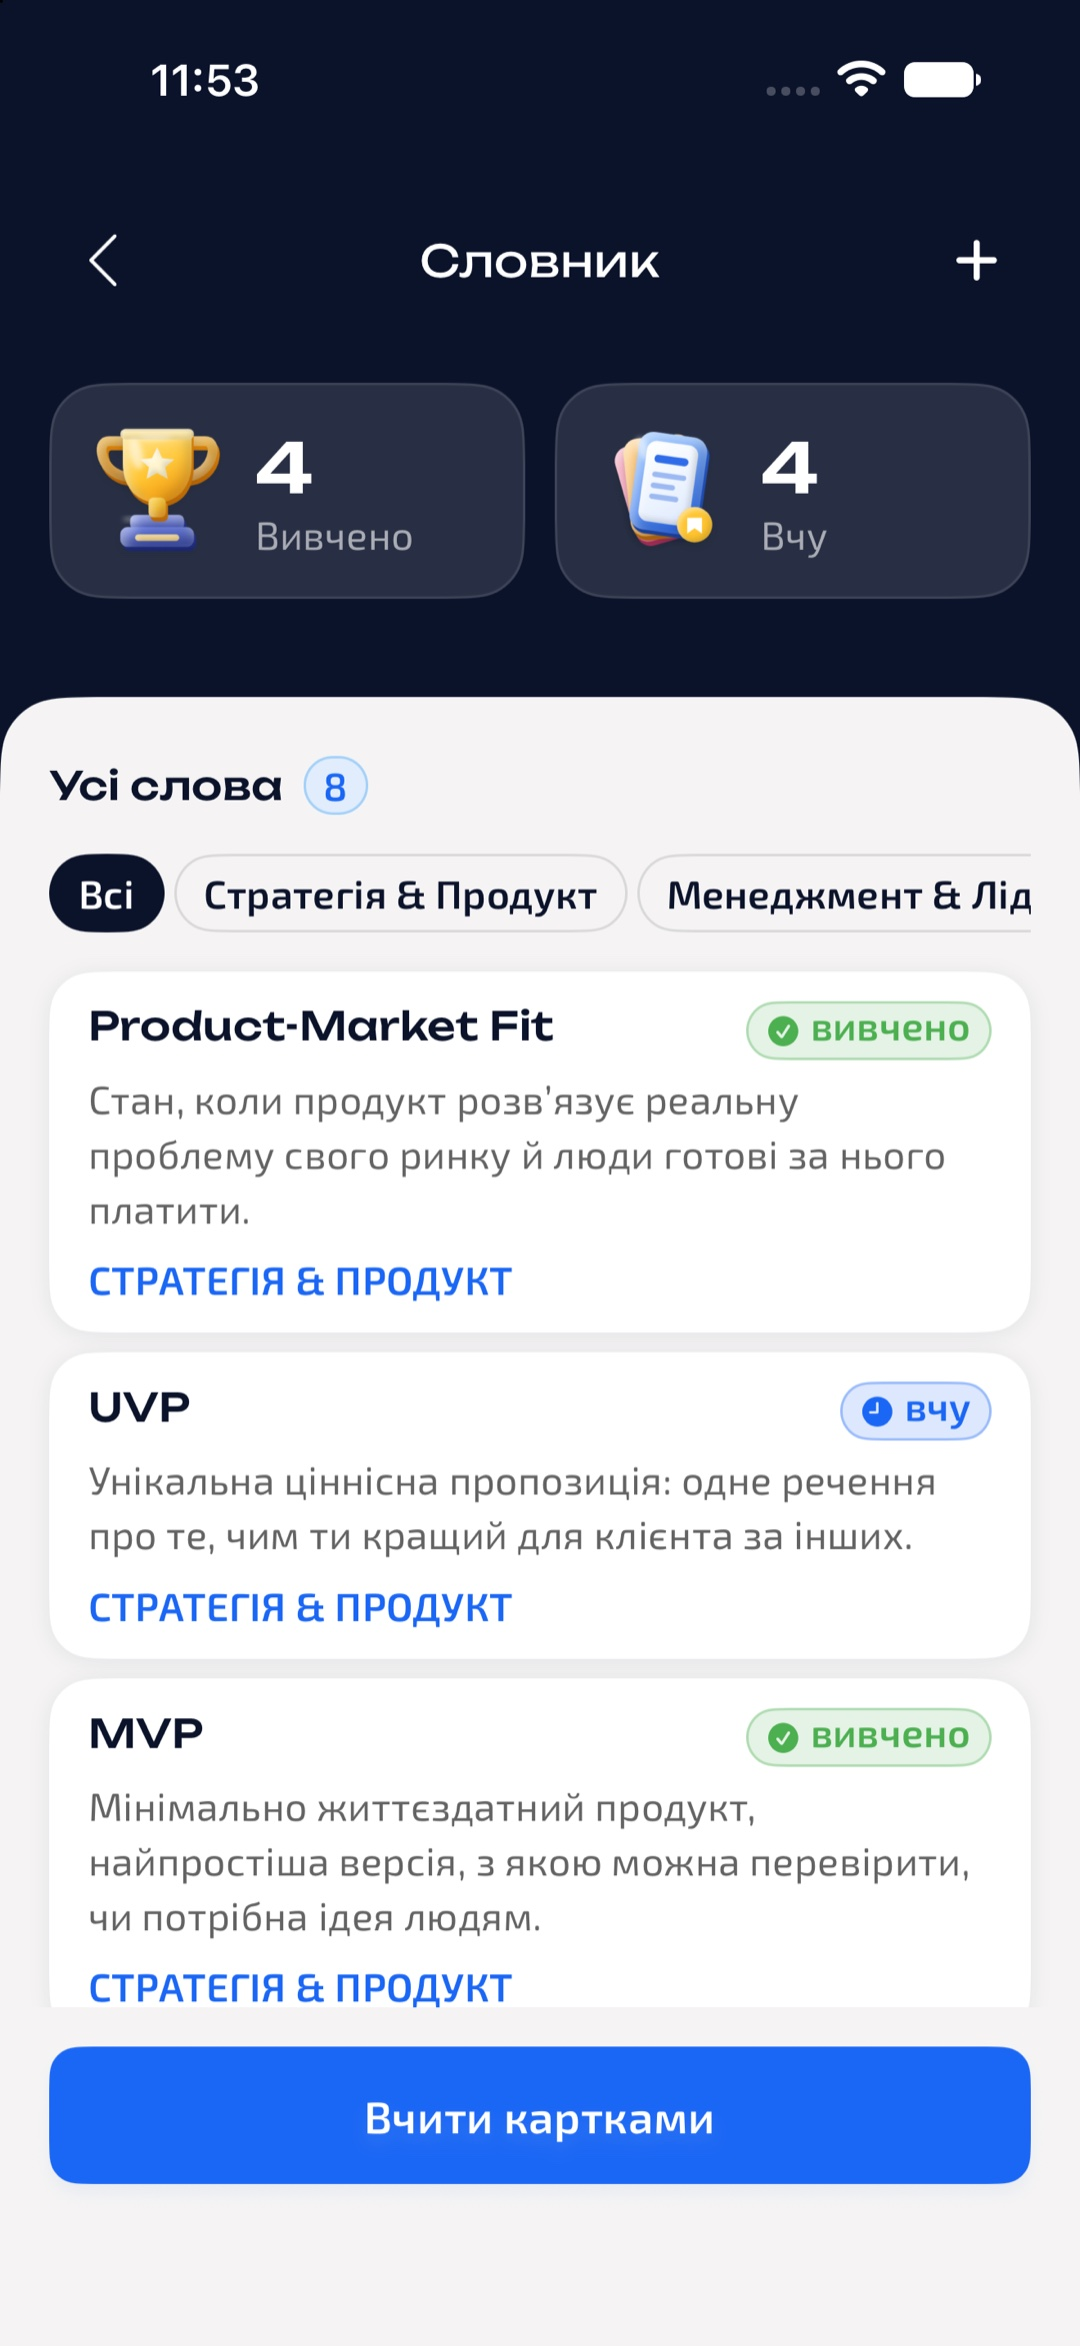
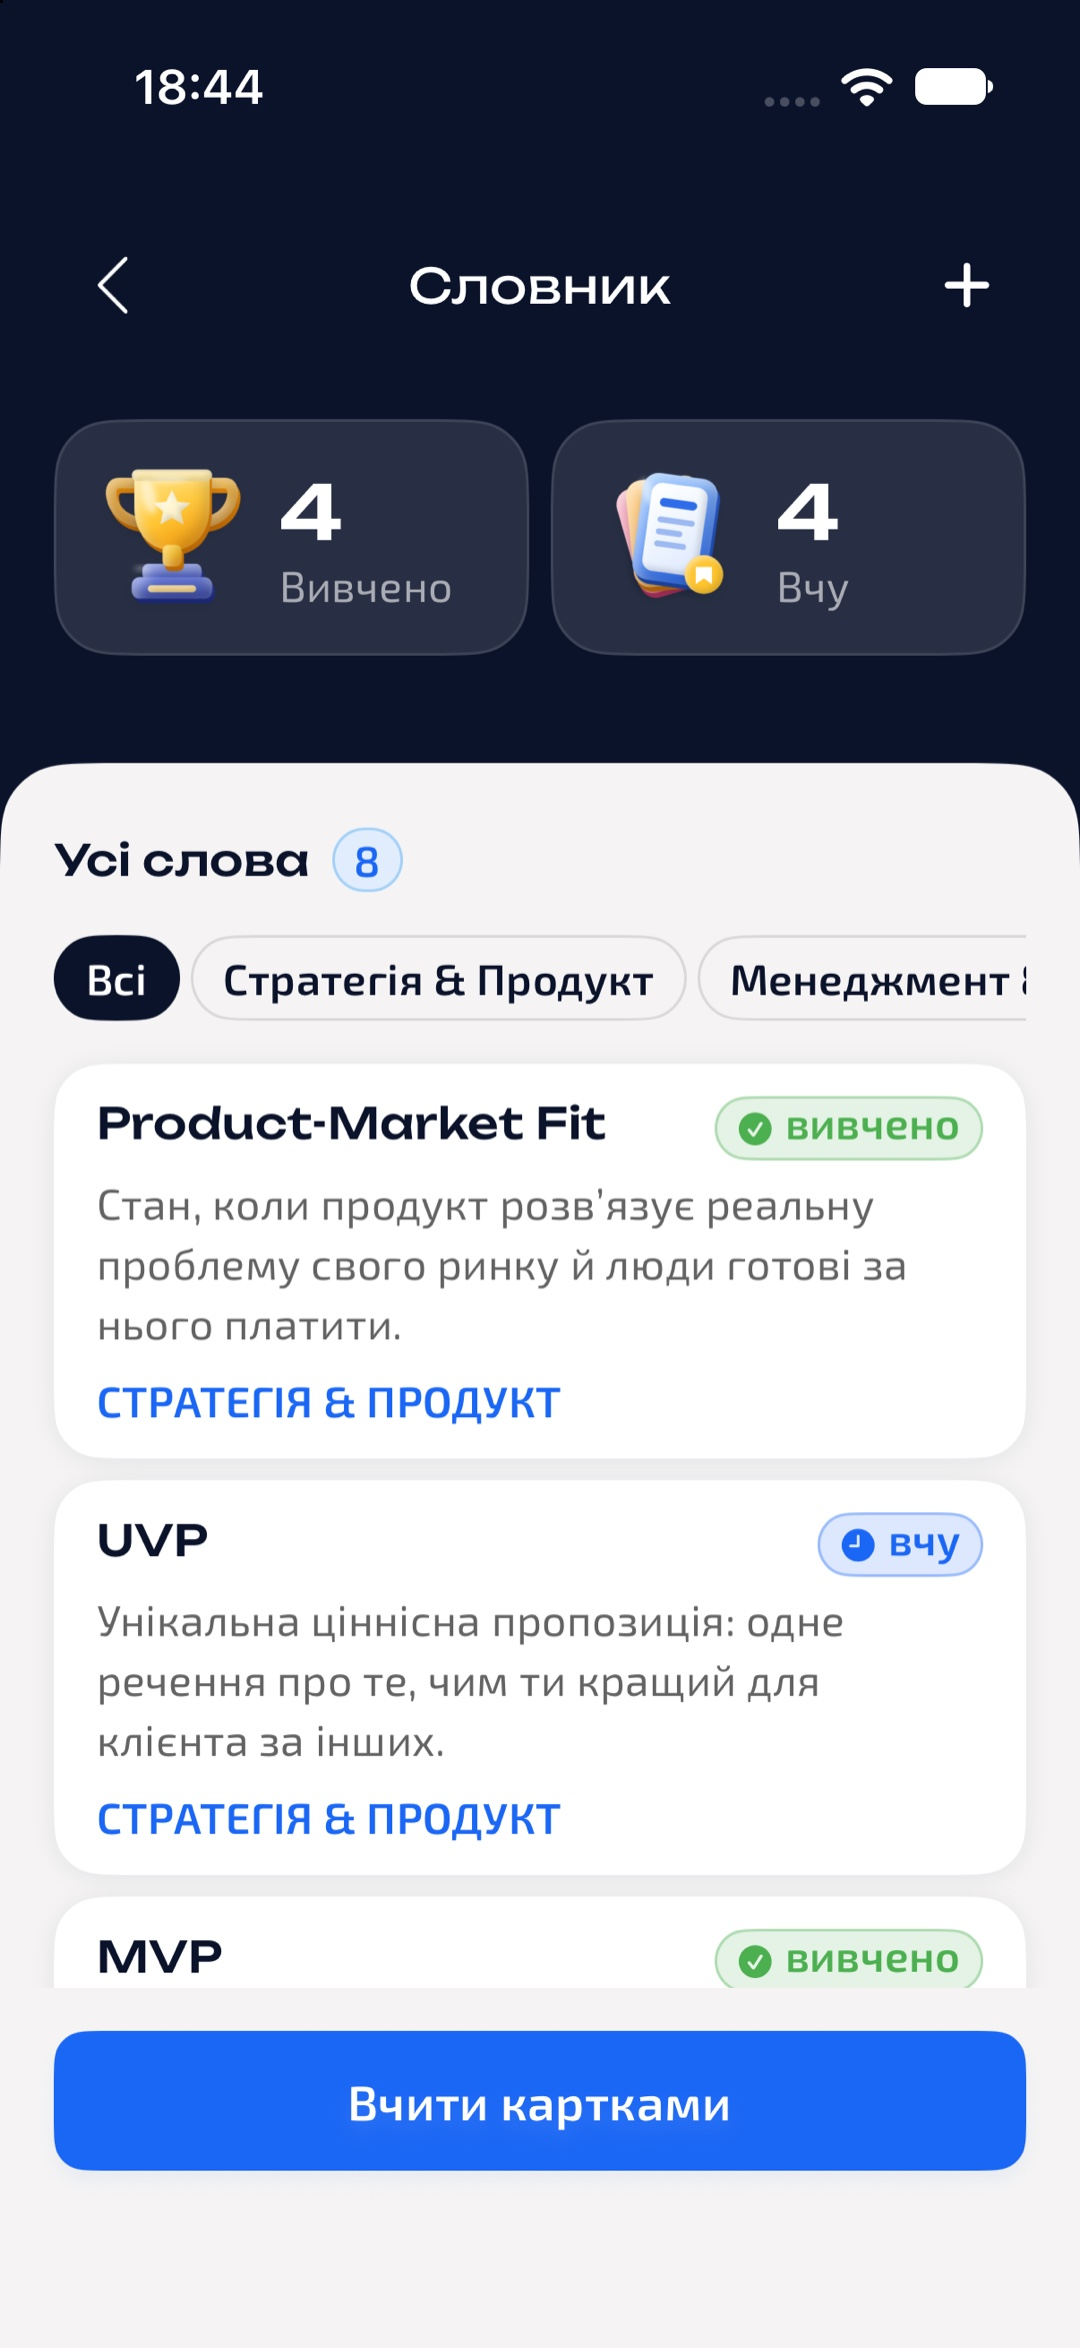
Перезнято словник: менший проміжок між плитками статистики
Claude-Session: https://claude.ai/code/session_01SnGbK59qBap6rGwT8CguWL

diff --git a/index.html b/index.html
@@ -182,7 +182,7 @@ function render(){
   board+=`<div class="secgrp"><div class="sechead" id="${sec.id}"><h2>${sec.title}</h2><span>${cnt} ${plural(cnt)}</span></div>`;
   flows.forEach(x=>{
    board+=`<section class="flow" id="${x.f.id}"><div class="flowcap"><h3>${x.f.title}</h3><span>${x.items.length} ${plural(x.items.length)}</span><button data-cflow="${x.f.id}">Коментувати флоу</button></div><div class="rowwrap"><button class="arrow l" aria-label="Назад">←</button><div class="row">`+
-    x.items.map(s=>`<figure class="shot" data-route="${s.route}"><div class="im"><img src="shots/${s.route}.jpg?v=2609231301" alt="${s.label}" loading="lazy" draggable="false"><i class="pinc"></i></div><figcaption class="cap"><b>${s.label}</b><span>${s.note}</span></figcaption></figure>`).join('')+
+    x.items.map(s=>`<figure class="shot" data-route="${s.route}"><div class="im"><img src="shots/${s.route}.jpg?v=2609251845" alt="${s.label}" loading="lazy" draggable="false"><i class="pinc"></i></div><figcaption class="cap"><b>${s.label}</b><span>${s.note}</span></figcaption></figure>`).join('')+
     `</div><button class="arrow r" aria-label="Далі">→</button></div></section>`;
   });
   board+=`</div>`;
@@ -240,9 +240,9 @@ function vFit(){const W=vs.clientWidth,H=vs.clientHeight;V.fitz=Math.min(W/IW,(H
 function v100(){const W=vs.clientWidth,H=vs.clientHeight;const cx=W/2,cy=H/2;vZoomAt(1/V.z*.5,cx,cy)}
 function vZoomAt(f,cx,cy){const nz=Math.min(3,Math.max(V.fitz*.5,V.z*f));const k=nz/V.z;V.x=cx-(cx-V.x)*k;V.y=cy-(cy-V.y)*k;V.z=nz;vApply()}
 function openViewer(route){const k=all.findIndex(a=>a.route===route);if(k<0)return;V.i=k;$('#viewer').classList.add('on');document.body.style.overflow='hidden';showV();}
-function showV(){const s=all[V.i];vi.src='shots/'+s.route+'.jpg?v=2609231301';
+function showV(){const s=all[V.i];vi.src='shots/'+s.route+'.jpg?v=2609251845';
  $('#vt').innerHTML=`<b>${s.label}</b><span>${s.flow.title} · ${s.note}</span><code>${s.route}</code>`;
- const fl=all.filter(a=>a.flow===s.flow);$('#strip').innerHTML=fl.map(a=>`<button data-r="${a.route}" class="${a===s?'on':''}" title="${a.label}"><img src="shots/${a.route}.jpg?v=2609231301" loading="lazy" alt=""></button>`).join('');
+ const fl=all.filter(a=>a.flow===s.flow);$('#strip').innerHTML=fl.map(a=>`<button data-r="${a.route}" class="${a===s?'on':''}" title="${a.label}"><img src="shots/${a.route}.jpg?v=2609251845" loading="lazy" alt=""></button>`).join('');
  $('#strip').querySelectorAll('button').forEach(b=>b.onclick=()=>openViewer(b.dataset.r));
  $('#strip .on')?.scrollIntoView({inline:'center',block:'nearest'});
  vimg.querySelectorAll('.pin,.pop').forEach(n=>n.remove());
